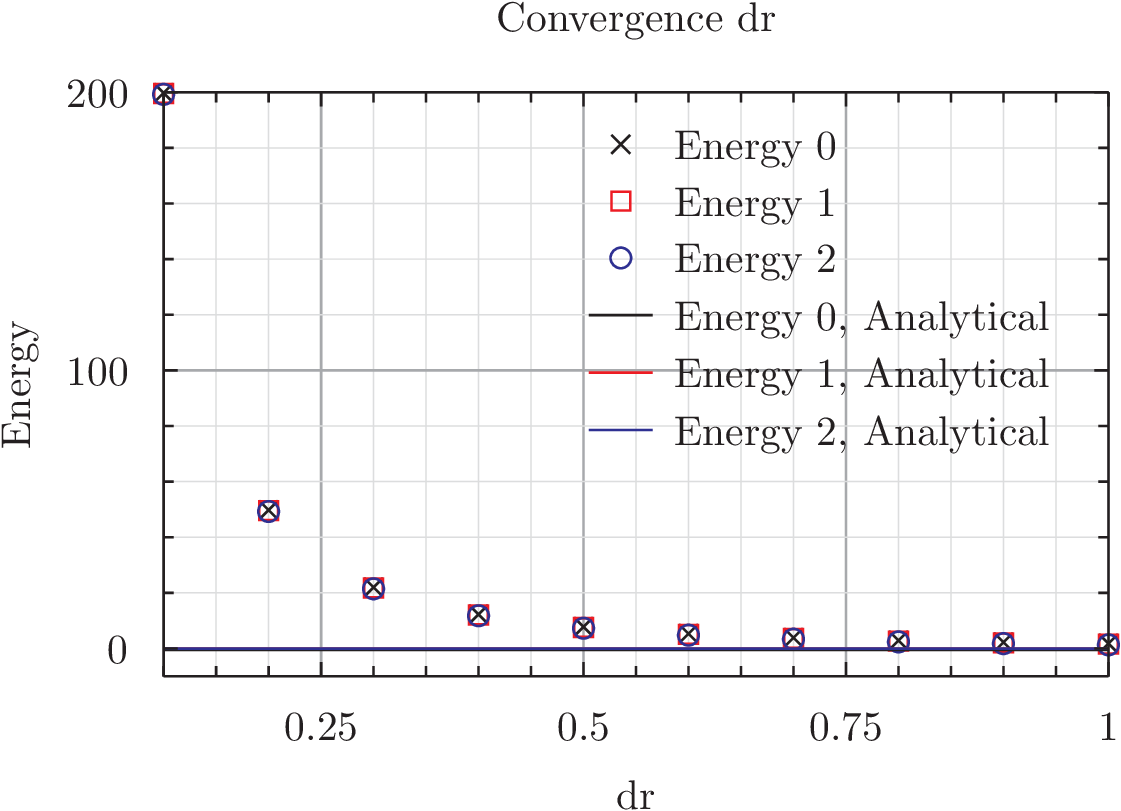
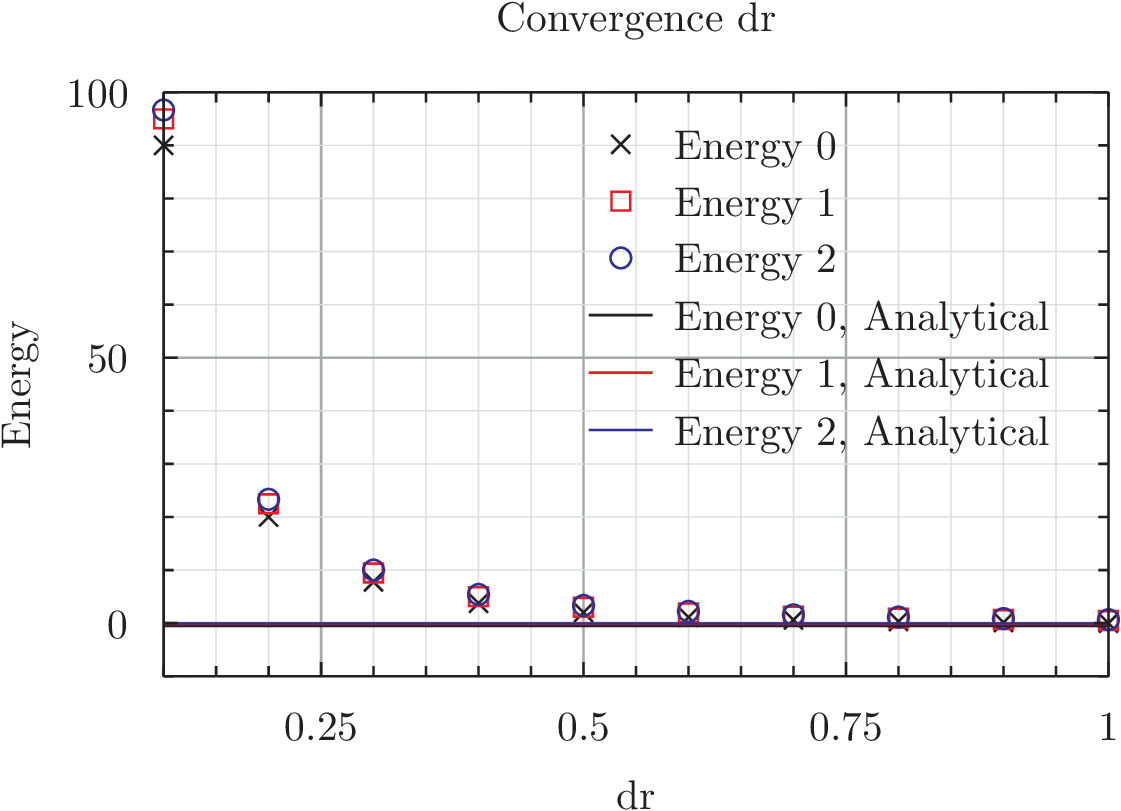
Working on eig part B

diff --git a/homework/eigenvalues/B/jacobi.cs b/homework/eigenvalues/B/jacobi.cs
@@ -31,47 +31,28 @@ public class jacobi{
 		matrix D = A.copy(); 
 		int n = D.size1;
 		var V = matrix.id(n); 
-	
-		/*
-		double diff = 1;
-		double diag0 = 0;
-		double diag1 = 0;
-		for(int i = 0; i<n; i++)
-			diag1 += Abs(D[i,i]);
-		*/ //Alternative convert criterium (snall sum of aff diagonals)
-		double offDiag = 0; 
-		for(int i=0; i<A.size1; i++){
-			for(int j = 0; j< A.size2; j++){
-				if(i!=j)
-					offDiag+=Abs(D[i,j]);
-			}
-		}
-		
-		while(offDiag>1e-6){
-			for( int i = 0; i < n; i++){
-				for(int j=0; j < i; j++){
-					double theta = 0.5*Atan2(2*D[i,j],D[j,j]-D[i,i]);
-					Jtimes(D,i,j,-theta);
-					timesJ(D,i,j,theta);
-					timesJ(V,i,j,theta);
+
+		bool changed;
+		do{
+			changed=false;
+			for(int p=0;p<n-1;p++)
+			for(int q=p+1;q<n;q++){
+				double apq=matrix.get(A,p,q);
+				double app=matrix.get(A,p,p);
+				double aqq=matrix.get(A,q,q);
+				double theta=0.5*Atan2(2*apq,aqq-app);
+				double c=Cos(theta),s=Sin(theta);
+				double new_app=c*c*app-2*s*c*apq+s*s*aqq;
+				double new_aqq=s*s*app+2*s*c*apq+c*c*aqq;
+				if(new_app!=app || new_aqq!=aqq) // do rotation
+				{
+					changed=true;
+					timesJ(A,p,q, theta);
+					Jtimes(A,p,q,-theta); // A←J^T*A*J 
+					timesJ(V,p,q, theta); // V←V*J
 				}
 			}
-		//Alternative convert criterium (snall sum of aff diagonals)
-			offDiag = 0; 
-			for(int i=0; i<A.size1; i++){
-				for(int j = 0; j< A.size2; j++){
-					if(i!=j)
-						offDiag+=Abs(D[i,j]);
-				}
-			}
-		/*
-			diag0 = diag1; 
-			diag1 = 0;
-			for(int i = 0; i<n; i++)
-				diag1 += Abs(D[i,i]); 
-			diff = Abs(diag1-diag0);
-		*/			
-		}
+		}while(changed);
 		// Convert matrix D to a vector with the eignevalues. 
 		vector eig; 
 		eig = D.diag();
